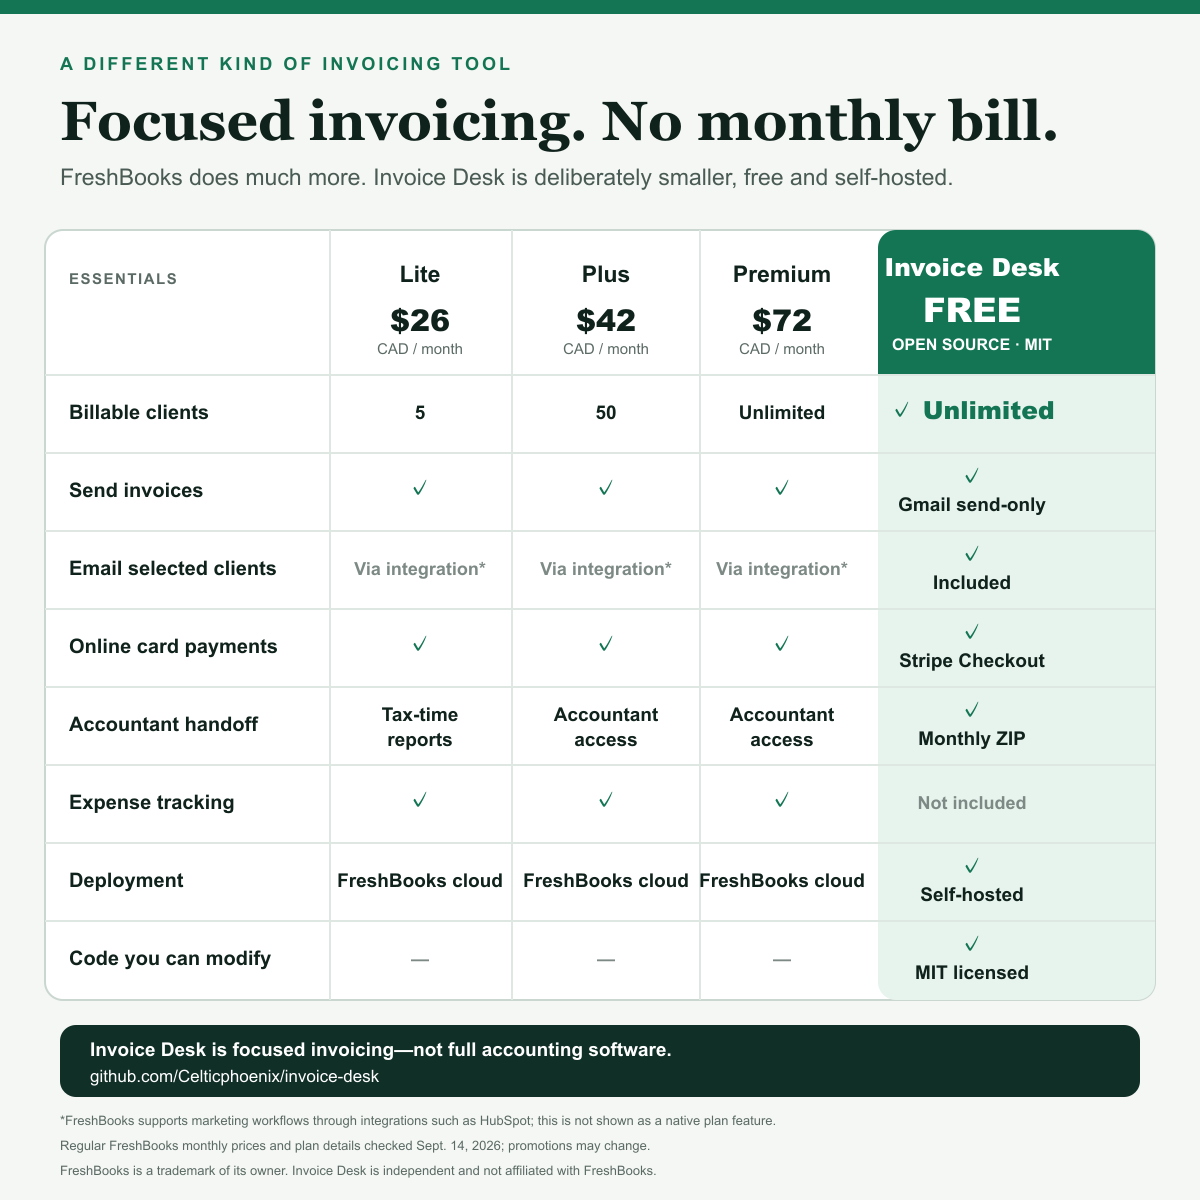
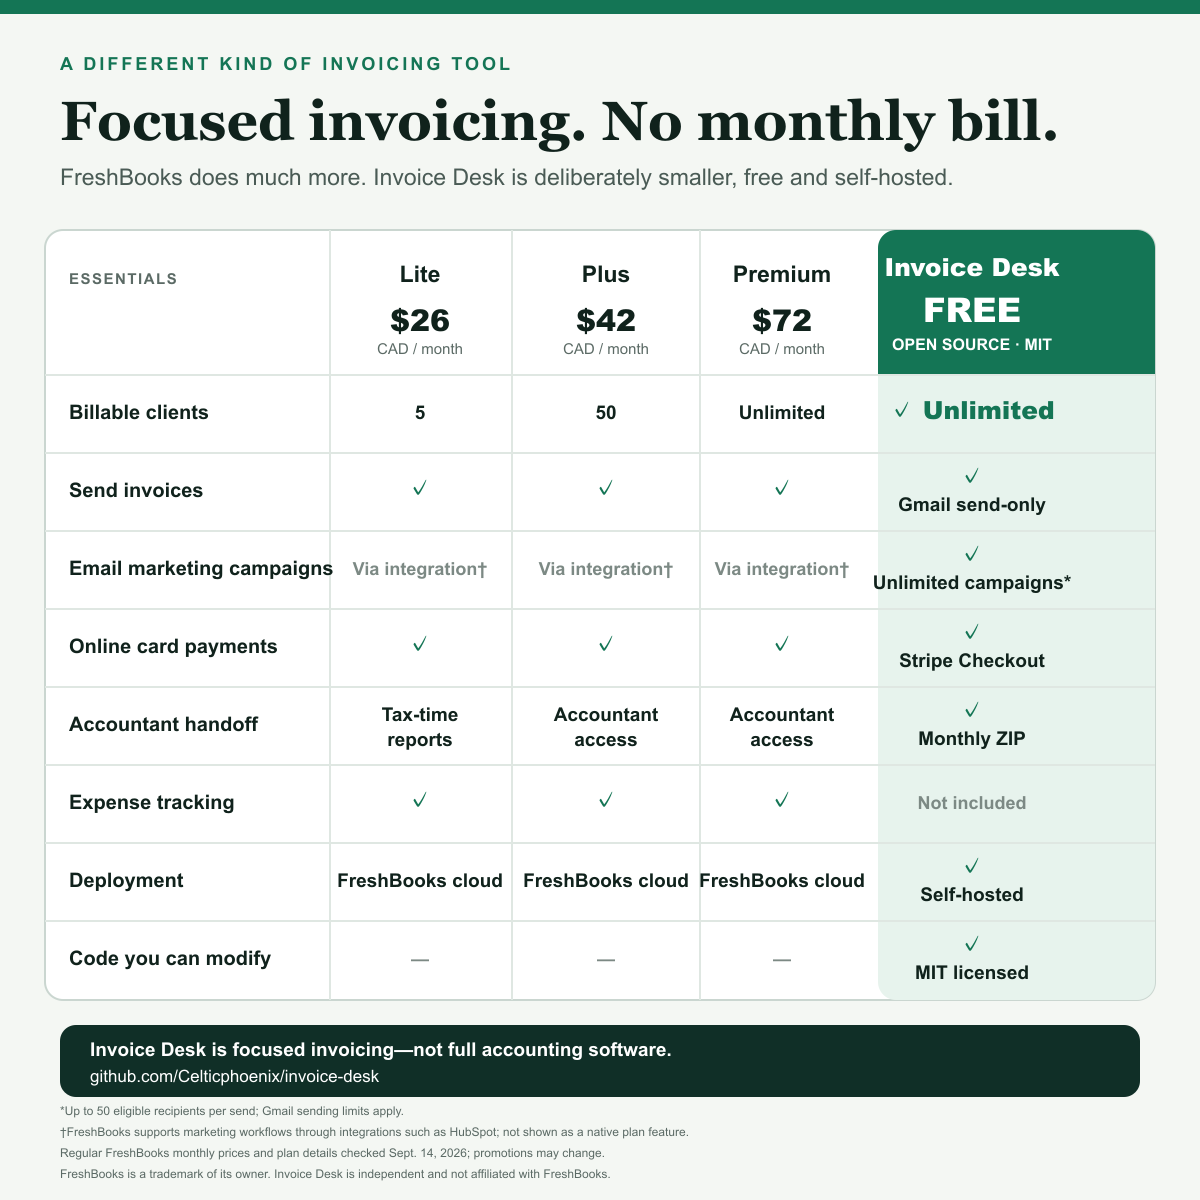
Highlight unlimited email campaigns

diff --git a/docs/comparison-notes.md b/docs/comparison-notes.md
@@ -6,6 +6,6 @@ FreshBooks plan details and regular monthly prices were checked on September 14,
 
 FreshBooks documents marketing workflows through integrations such as HubSpot at <https://support.freshbooks.com/hc/en-us/articles/360028927111-How-does-the-Hubspot-app-work>. The comparison therefore says “Via integration” rather than claiming FreshBooks cannot support marketing. A native selected-client campaign tool is not listed in the FreshBooks plan table; that wording is an inference from the official plan table and support documentation, not a claim about every third-party integration.
 
-Invoice Desk claims are backed by the repository and automated tests. Its campaign feature is intentionally small: recorded permission states, separate Gmail messages, a 50-recipient limit, per-recipient results, and unsubscribe instructions. It does not include bounce processing, analytics, open tracking, or automated web unsubscribe. The graphic expressly states that Invoice Desk does not include expense tracking and is not full accounting software.
+Invoice Desk claims are backed by the repository and automated tests. “Unlimited campaigns” means the app does not limit how many campaign records can be created; each send is limited to 50 eligible recipients and remains subject to Gmail sending limits. Its campaign feature is intentionally small: recorded permission states, separate Gmail messages, per-recipient results, and unsubscribe instructions. It does not include bounce processing, analytics, open tracking, or automated web unsubscribe. The graphic expressly states that Invoice Desk does not include expense tracking and is not full accounting software.
 
 `invoice-desk-comparison.svg` is the editable source. `invoice-desk-comparison.png` is the LinkedIn-ready export.
